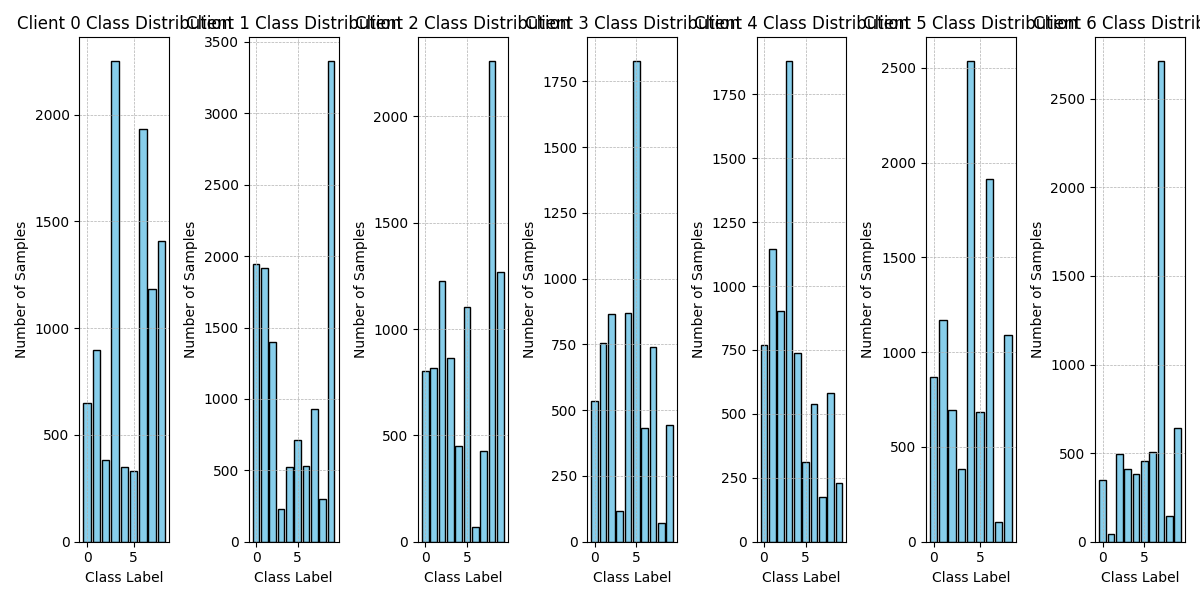
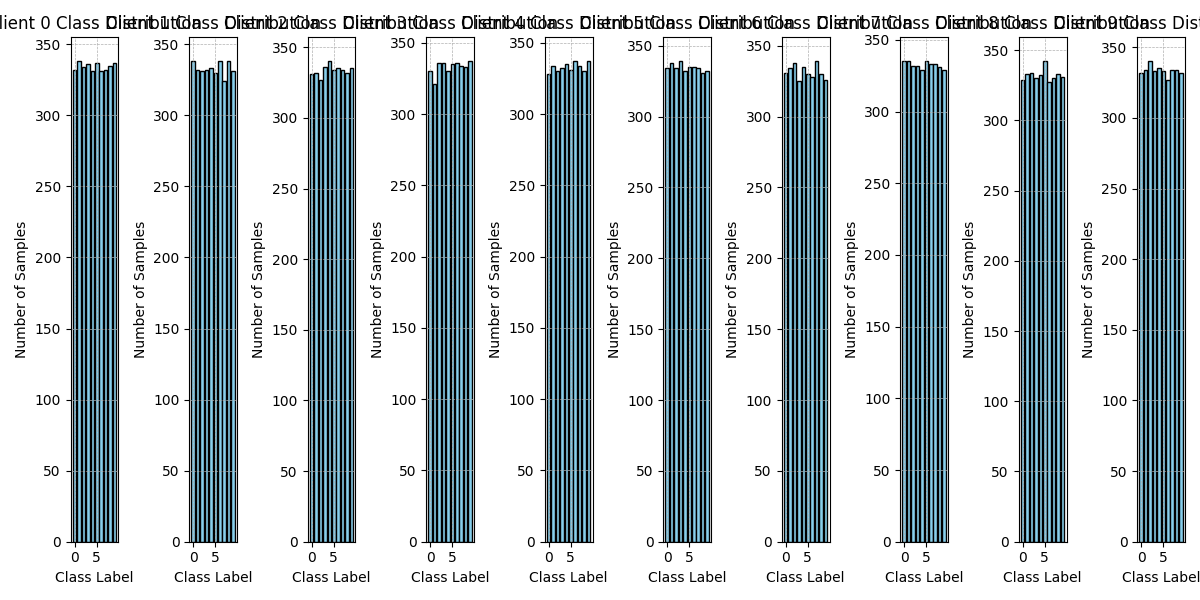
trying resnet

diff --git a/Block_Cyclic_Overlapping_Client_Participation/fedml/data/MNIST/data_loader.py b/Block_Cyclic_Overlapping_Client_Participation/fedml/data/MNIST/data_loader.py
@@ -200,7 +200,7 @@ def distribute_classes(num_clients, total_classes):
 
 
 
-def read_data_dirichlet(alpha, num_clients=7):
+def read_data_dirichlet(alpha, pytorch_dataset, num_clients=7):
     """
     Reads and processes heterogeneous training and testing data for a given number of clients using Dirichlet distribution.
 
@@ -222,15 +222,27 @@ def read_data_dirichlet(alpha, num_clients=7):
     - The function assumes that the training and testing data are saved in .json format and each file's content has a 
       key named "user_data".
     """
+    
     transform = transforms.Compose([transforms.ToTensor()])
-    train_dataset = datasets.MNIST(root="./home/shubham/fed_data", train=True, transform=transform, download=True)
-    test_dataset = datasets.MNIST(root="./home/shubham/fed_data", train=False, transform=transform, download=True)
-    all_train_x = [img.flatten().numpy().tolist() for img,_ in train_dataset]
-    all_test_x = [img.flatten().numpy().tolist() for img,_ in test_dataset]
-    all_train_y = [label for _, label in train_dataset]
-    all_test_y = [label for _, label in test_dataset]
+    if pytorch_dataset == "mnist":
+        train_dataset = datasets.MNIST(root="./home/shubham/fed_data/MNIST", train=True, transform=transform, download=True)
+        test_dataset = datasets.MNIST(root="./home/shubham/fed_data/MNIST", train=False, transform=transform, download=True)
+        all_train_x = [img.flatten().numpy().tolist() for img,_ in train_dataset]
+        all_test_x = [img.flatten().numpy().tolist() for img,_ in test_dataset]
+        all_train_y = [label for _, label in train_dataset]
+        all_test_y = [label for _, label in test_dataset]
+    elif pytorch_dataset == "fashionMnist" :
+        train_dataset = datasets.FashionMNIST(root="./home/shubham/fed_data/Fashion", train=True, transform=transform, download=True)
+        test_dataset = datasets.FashionMNIST(root="./home/shubham/fed_data/Fashion", train=False, transform=transform, download=True)
+    else:
+        train_dataset = datasets.CIFAR10(root="./home/shubham/fed_data/CIFAR", train=True, transform=transform, download=True)
+        test_dataset = datasets.CIFAR10(root="./home/shubham/fed_data/CIFAR", train=False, transform=transform, download=True)
+        all_train_x = [img.numpy().tolist() for img,_ in train_dataset]
+        all_test_x = [img.numpy().tolist() for img,_ in test_dataset]
+        all_train_y = [label for _, label in train_dataset]
+        all_test_y = [label for _, label in test_dataset]
     # Splitting data using Dirichlet distribution
-    train_client_idcs, stats = dirichlet(train_dataset, num_clients, alpha, 2500)
+    train_client_idcs, stats = dirichlet(train_dataset, num_clients, alpha, len(all_train_y)//(5*num_clients))
     plots(stats, num_clients)
     # test_client_idcs = dirichlet(np.arange(len(all_test_y)), np.array(all_test_y), alpha, num_clients)
     # uniform distribution of test data
@@ -422,7 +434,7 @@ def load_partition_data_mnist_by_device_id(batch_size, device_id, train_path="MN
 def load_partition_data_mnist(
     args, batch_size
 ):
-    users, groups, train_data, test_data = read_data_dirichlet(1.0,num_clients=args.client_num_in_total)
+    users, groups, train_data, test_data = read_data_dirichlet(10000,num_clients=args.client_num_in_total, pytorch_dataset = args.dataset)
 
     if len(groups) == 0:
         groups = [None for _ in users]
@@ -445,7 +457,7 @@ def load_partition_data_mnist(
         # transform to batches
         train_batch = batch_data(args, train_data[u], batch_size)
         test_batch = batch_data(args, test_data[u], batch_size)
-
+        
         # index using client index
         train_data_local_dict[client_idx] = train_batch
         test_data_local_dict[client_idx] = test_batch

diff --git a/Block_Cyclic_Overlapping_Client_Participation/fedml/simulation/sp/fedavg/fedavg_api.py b/Block_Cyclic_Overlapping_Client_Participation/fedml/simulation/sp/fedavg/fedavg_api.py
@@ -180,15 +180,68 @@ class FedAvgAPI(object):
             client_indexes = np.random.choice(range(client_num_in_total), num_clients, replace=False)
         logging.info("client_indexes = %s" % str(client_indexes))
         return client_indexes
-    def client_sampling_cyclic(self, round_idx, client_num_in_total):
+    def client_sampling_cyclic_overlap_pattern(self, round_idx, client_num_in_total):
         start_idx = (round_idx * (self.args.client_num_per_round - 1)) % client_num_in_total
         client_indexes = [(start_idx + i) % client_num_in_total for i in range(self.args.client_num_per_round)]
         return client_indexes
     
-    def client_sampling_cyclic_noOverlap(self, round_idx, client_num_in_total):
+    def client_sampling_cyclic_noOverlap_pattern(self, round_idx, client_num_in_total):
         start_idx = (round_idx * (self.args.client_num_per_round)) % client_num_in_total
         client_indexes = [(start_idx + i) % client_num_in_total for i in range(self.args.client_num_per_round)]
         return client_indexes
+    
+    def client_sampling_cyclic_noOverlap_random(self, round_idx, client_num_in_total):
+    # Number of client groups
+        K = self.args.num_groups
+
+        # Number of clients in each group
+        M_per_K = client_num_in_total // K
+
+        # Determine the active group in the current round
+        active_group_idx = round_idx % K
+
+        # Start and end indices for the active group
+        start_idx = active_group_idx * M_per_K
+        end_idx = start_idx + M_per_K
+
+        # List of clients in the active group
+        group_clients = list(range(start_idx, end_idx))
+
+        # Randomly sample N clients from the active group without replacement
+        sampled_clients = random.sample(group_clients, self.args.client_num_per_round)
+
+        return sampled_clients
+    def client_sampling_cyclic_overlap_random(self, round_idx, client_num_in_total):
+    # Number of client groups
+        K = self.args.num_groups
+
+        # Percentage overlap P
+        P = self.args.overlap_percentage  # Assuming this is given as a value between 0 and 1
+
+        # Number of clients in each group
+        M_per_K = client_num_in_total // K
+
+        # Calculate overlap in terms of number of clients
+        overlap = int(P * M_per_K)
+
+        # Determine the active group in the current round
+        active_group_idx = round_idx % K
+
+        # Start and end indices for the active group
+        # Adjust the start index by subtracting the overlap
+        start_idx = active_group_idx * M_per_K - overlap * (active_group_idx)
+        end_idx = start_idx + M_per_K
+
+        # Adjust for potential negative indices for the first group
+        start_idx = max(0, start_idx)
+
+        # List of clients in the active group
+        group_clients = list(range(start_idx, end_idx))
+
+        # Randomly sample N clients from the active group without replacement
+        sampled_clients = random.sample(group_clients, self.args.client_num_per_round)
+
+        return sampled_clients
 
     def _generate_validation_set(self, num_samples=10000):
         test_data_num = len(self.test_global.dataset)

diff --git a/Block_Cyclic_Overlapping_Client_Participation/fedml/model/model_hub.py b/Block_Cyclic_Overlapping_Client_Participation/fedml/model/model_hub.py
@@ -11,6 +11,7 @@ from fedml.model.cv.mobilenet_v3 import MobileNetV3
 from fedml.model.cv.resnet import resnet56
 from fedml.model.cv.resnet56 import resnet_client, resnet_server
 from fedml.model.cv.resnet_gn import resnet18
+# from fedml.model.cv.resnet_gn import resnet20
 from fedml.model.linear.lr import LogisticRegression
 from fedml.model.linear.lr_cifar10 import LogisticRegression_Cifar10
 from fedml.model.nlp.rnn import RNN_OriginalFedAvg, RNN_StackOverFlow, RNN_FedShakespeare
@@ -23,18 +24,24 @@ def create(args, output_dim):
     if model_name == "lr" and args.dataset == "mnist":
         logging.info("LogisticRegression + MNIST")
         model = LogisticRegression(28 * 28, output_dim)
-    elif model_name == "cnn_web" and args.dataset == "cifar10":
-        logging.info("CNN_WEB + CIFAR10")
-        model = CNN_WEB()
+    elif model_name == "resnet_18" and args.dataset == "cifar10":
+        logging.info("RESNET_18 + CIFAR10")
+        model = resnet18(num_classes = 10)
     elif model_name == "lr" and args.dataset == "cifar10":
         logging.info("LogisticRegression + CIFAR10")
         model = LogisticRegression_Cifar10(32 * 32 * 3, output_dim)
     elif model_name == "cnn" and args.dataset == "mnist":
         logging.info("CNN + MNIST")
-        model = CNN_DropOut(False)
+        model = CNN_DropOut(True)
     elif model_name == "cnn" and args.dataset == "femnist":
         logging.info("CNN + FederatedEMNIST")
         model = CNN_DropOut(False)
+    elif model_name == "cnn" and args.dataset == "fashionMnist":
+        logging.info("CNN + FederatedfashionMnist")
+        model = CNN_DropOut(False)
+    # elif model_name == "cnn" and args.dataset == "cifar10":
+    #     logging.info("CNN + Federated_CIFAR10")
+    #     model = CNN_WEB()
     elif model_name == "resnet18_gn" and args.dataset == "fed_cifar100":
         logging.info("ResNet18_GN + Federated_CIFAR100")
         model = resnet18()

diff --git a/Block_Cyclic_Overlapping_Client_Participation/fedml/data/data_loader.py b/Block_Cyclic_Overlapping_Client_Participation/fedml/data/data_loader.py
@@ -259,7 +259,7 @@ def load_synthetic_data(args):
     else:
         full_batch = False
 
-    if dataset_name == "mnist":
+    if dataset_name == "mnist" or dataset_name == "cifar10" or dataset_name == "fashionMnist":
         # download_mnist(args.data_cache_dir)
         logging.info("load_data. dataset_name = %s" % dataset_name)
         (
